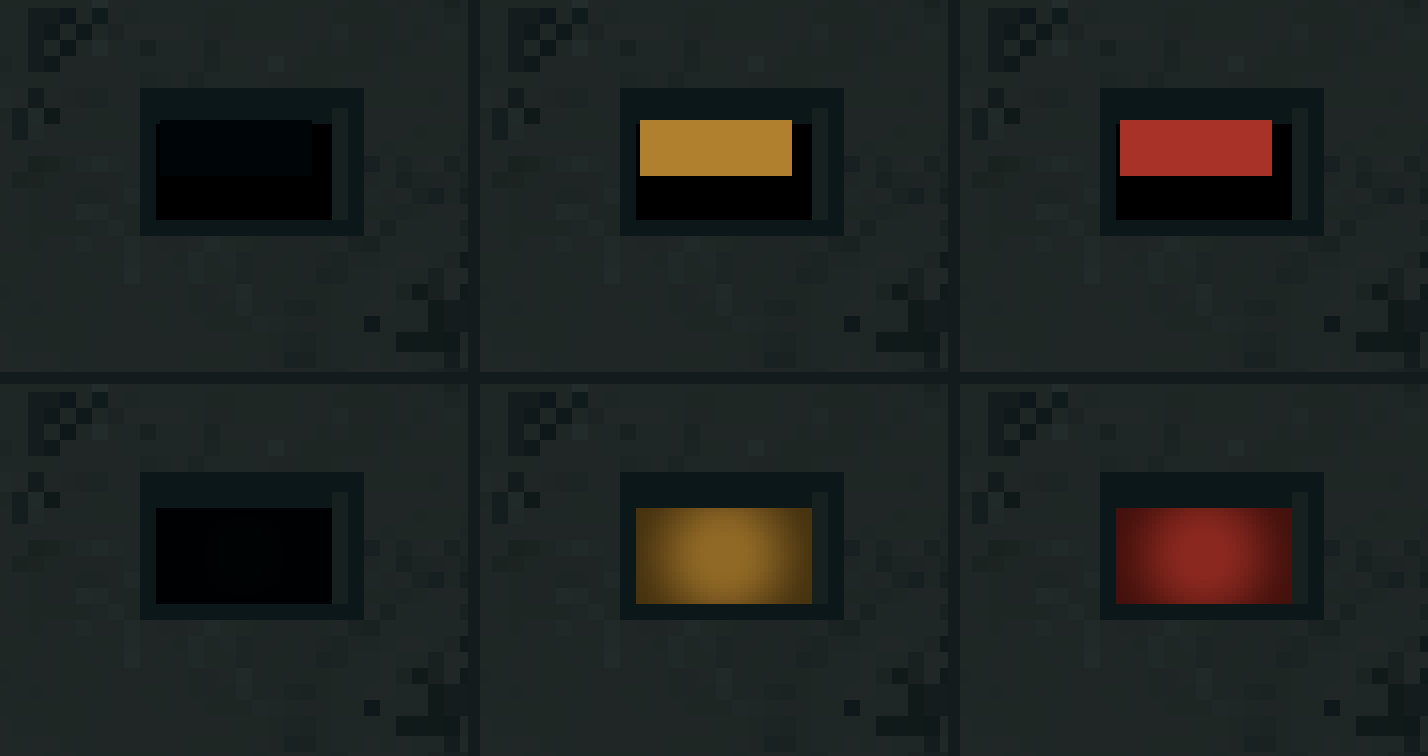
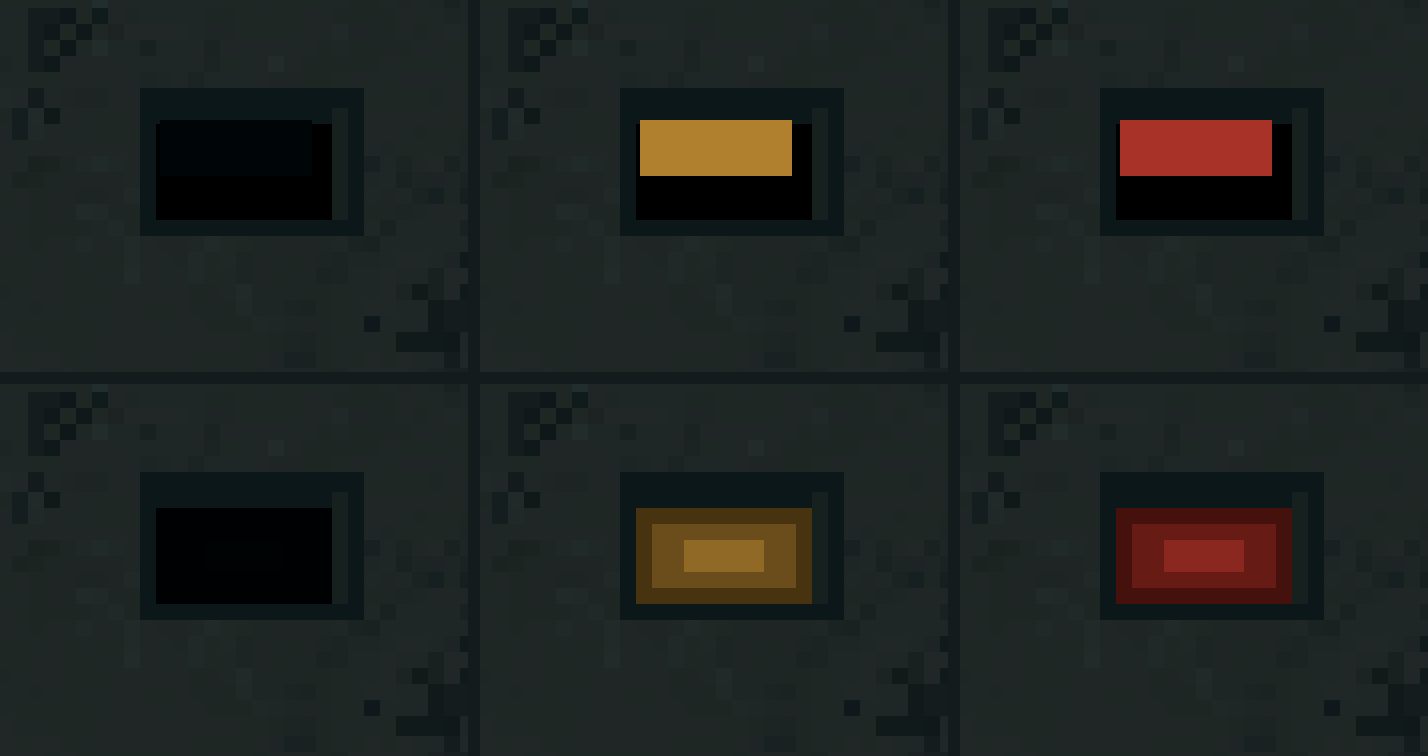
Step the status glass falloff on the window's native pixel grid
Three levels (100/74/50%) evaluated per native pixel of the 11x6 recess,
replacing the smooth gradient that read softer than the pixel art.

Changed region(s): [[0.8011, 0.6693, 0.8936, 0.8214], [0.4622, 0.6693, 0.5546, 0.8214]]

diff --git a/docs/art/PENDING_DECISIONS.md b/docs/art/PENDING_DECISIONS.md
@@ -34,7 +34,7 @@
 | **角色当前项** | **主角 A 姿势／收袖口 v4** | v3外形方向已沿用；用户确认细密哑光、略挺的涤纶混纺机织布。PixelLab制作正面A姿势并按反馈收袖口；宽袖旧图只留来源，不作最终服装母版。[审图](experiments/protagonist_apose_v4/preview.html)／[3D检查约束](experiments/protagonist_apose_v4/README.md) | 确认袖口、轮廓和A姿势；随后补一致的侧背面，检查完再生成分件几何。 | ⏳ 本角色对话当前项：收袖口成图待审；面料已确认 |
 | **1a** | **Room 1 门面：r32 粉末涂层（颗粒强度）** | 材质已定为 M05-L。r32 用 M05-L 原生底材，叠 r30 的暗痕迹、密封边和小窗，去掉门边亮圈；亮度按墙面校准，0 次新生成。颗粒强度改过两次：第一版太花 → 第一次修订偏淡 → 现在取两者中间值（细颗粒 1.25 倍、痕迹 1.5 倍）。[r32 审图](experiments/room1_door_powder_r32/preview.html)／[说明](experiments/room1_door_powder_r32/README.md) | 确认中间值即可。 | ✅ 11/17 用户确认：采用 r32 中间值（提交 9599ce8） |
 | **1b** | **Room 1 门灯：方案 B** | r18 太亮、灯条太明显 → 方案 B：灯芯压暗、降饱和藏进槽里（0.45），门洞内壁和门槛加淡泛光（0.50），保留约 r18 一半的弱光晕（1.1）。只在通行时亮。[方案 B](experiments/room1_door_light_recess_b1/preview.html)／[说明](experiments/room1_door_light_recess_b1/README.md) | — | ✅ 11/17 用户确认：采用 B（提交 8465a17） |
-| **1c** | **小窗发光没填满凹口** | 黄、红灯时亮色只占凹口上部，下面留一条暗边。[门灯审图 v1](experiments/room1_door_light_review_v1/preview.html) | 尺寸核对：发光块是 v3 时的 0.115×0.045 m，偏在左上；r30/r32 的暗色凹口内部约 0.135×0.075 m（11×6 原生像素），中心低 1.8 cm。是没对齐，不是设计。用户选择"暗玻璃透光"：发光块对准并填满凹口，整窗带状态色，中心亮、边缘暗。[说明与对比](experiments/room1_door_status_glass_v1/README.md) | ⏳ 当前项：审暗玻璃小窗 |
+| **1c** | **小窗发光没填满凹口** | 黄、红灯时亮色只占凹口上部，下面留一条暗边。[门灯审图 v1](experiments/room1_door_light_review_v1/preview.html) | 尺寸核对：发光块是 v3 时的 0.115×0.045 m，偏在左上；r30/r32 的暗色凹口内部约 0.135×0.075 m（11×6 原生像素），中心低 1.8 cm。是没对齐，不是设计。用户选择"暗玻璃透光"：发光块对准并填满凹口，整窗带状态色，按原生像素格分三级色阶，中心亮、边缘暗。[说明与对比](experiments/room1_door_status_glass_v1/README.md) | ⏳ 当前项：审暗玻璃小窗 |
 | 1d | **门框竖灯两端轻微斜折** | 游戏镜头里左右竖灯靠近上下两端时向内斜一小段，r17/r18/B 都有。 | 1c 之后再查原因。 | |
 | | *Room 1 冻结条件* | 门面（1a）、门灯（1b）和两个小问题（1c、1d）都处理后，Room 1 美术整体冻结，再同步到 4F 走廊和正式 F5。 | | |
 | 2 | **楼梯 ST-01＋扶手 C 旧化 v2** | C 的形体你已认可；v2 补了环境旧化（槽底、墙脚、平台角、踏面靠墙端），中央没有踩踏磨耗。楼梯底材沿用 11/5 的局部折中稿。[审图](https://github.com/Glandy-T/echoes-of-ruin/blob/main/docs/art/experiments/cryo_handrail_age_v2/preview.md) | 采用 v2，楼梯材质一起冻结。之后的安装验证（爬楼控制器、门扫掠）是技术活。 | |

diff --git a/docs/art/experiments/room1_door_status_glass_v1/README.md b/docs/art/experiments/room1_door_status_glass_v1/README.md
@@ -9,10 +9,10 @@
 ## 做法
 
 1. **对准凹口**：r32 贴图里凹口内部是 11×6 个原生像素，换算到 1.37×2.30 m 的门叶上是 0.1346×0.0750 m，中心在 (+0.0061, 0.300)。发光块改为正好这个尺寸和位置，贴图里 1px 的暗边留作窗框。
-2. **暗玻璃着色**：整窗都带状态色，但先乘 0.82 的透光率，再从中心往边缘降到 50%，看起来是"深色玻璃后面有一盏灯"；待机时是近黑的玻璃色。
+2. **暗玻璃着色**：整窗都带状态色，先乘 0.82 的透光率，再按三级色阶由中心往外变暗：中心 100%、中圈 74%、最外一圈 50%。色阶按凹口自己的 11×6 原生像素格计算，每格只有一个颜色，和门面的像素画法一致。待机时是近黑的玻璃色。
 3. 黄闪节奏、红、绿颜色和触发条件都沿用原来的门灯逻辑，只是换了显示方式。
 
 ## 需要看的地方
 
 - 贴图里凹口右侧的暗边比左侧多 1 像素（r30 原样），所以近看玻璃略偏左。游戏镜头下看不出来。
-- 中心到边缘是平滑渐变。近景放大时会比周围像素画面更"软"；如果觉得不协调，可以把渐变改成 2～3 级色阶。
+- 第一版是平滑渐变，近景放大时比周围像素画面更"软"；用户要求改为色阶，现为三级。
